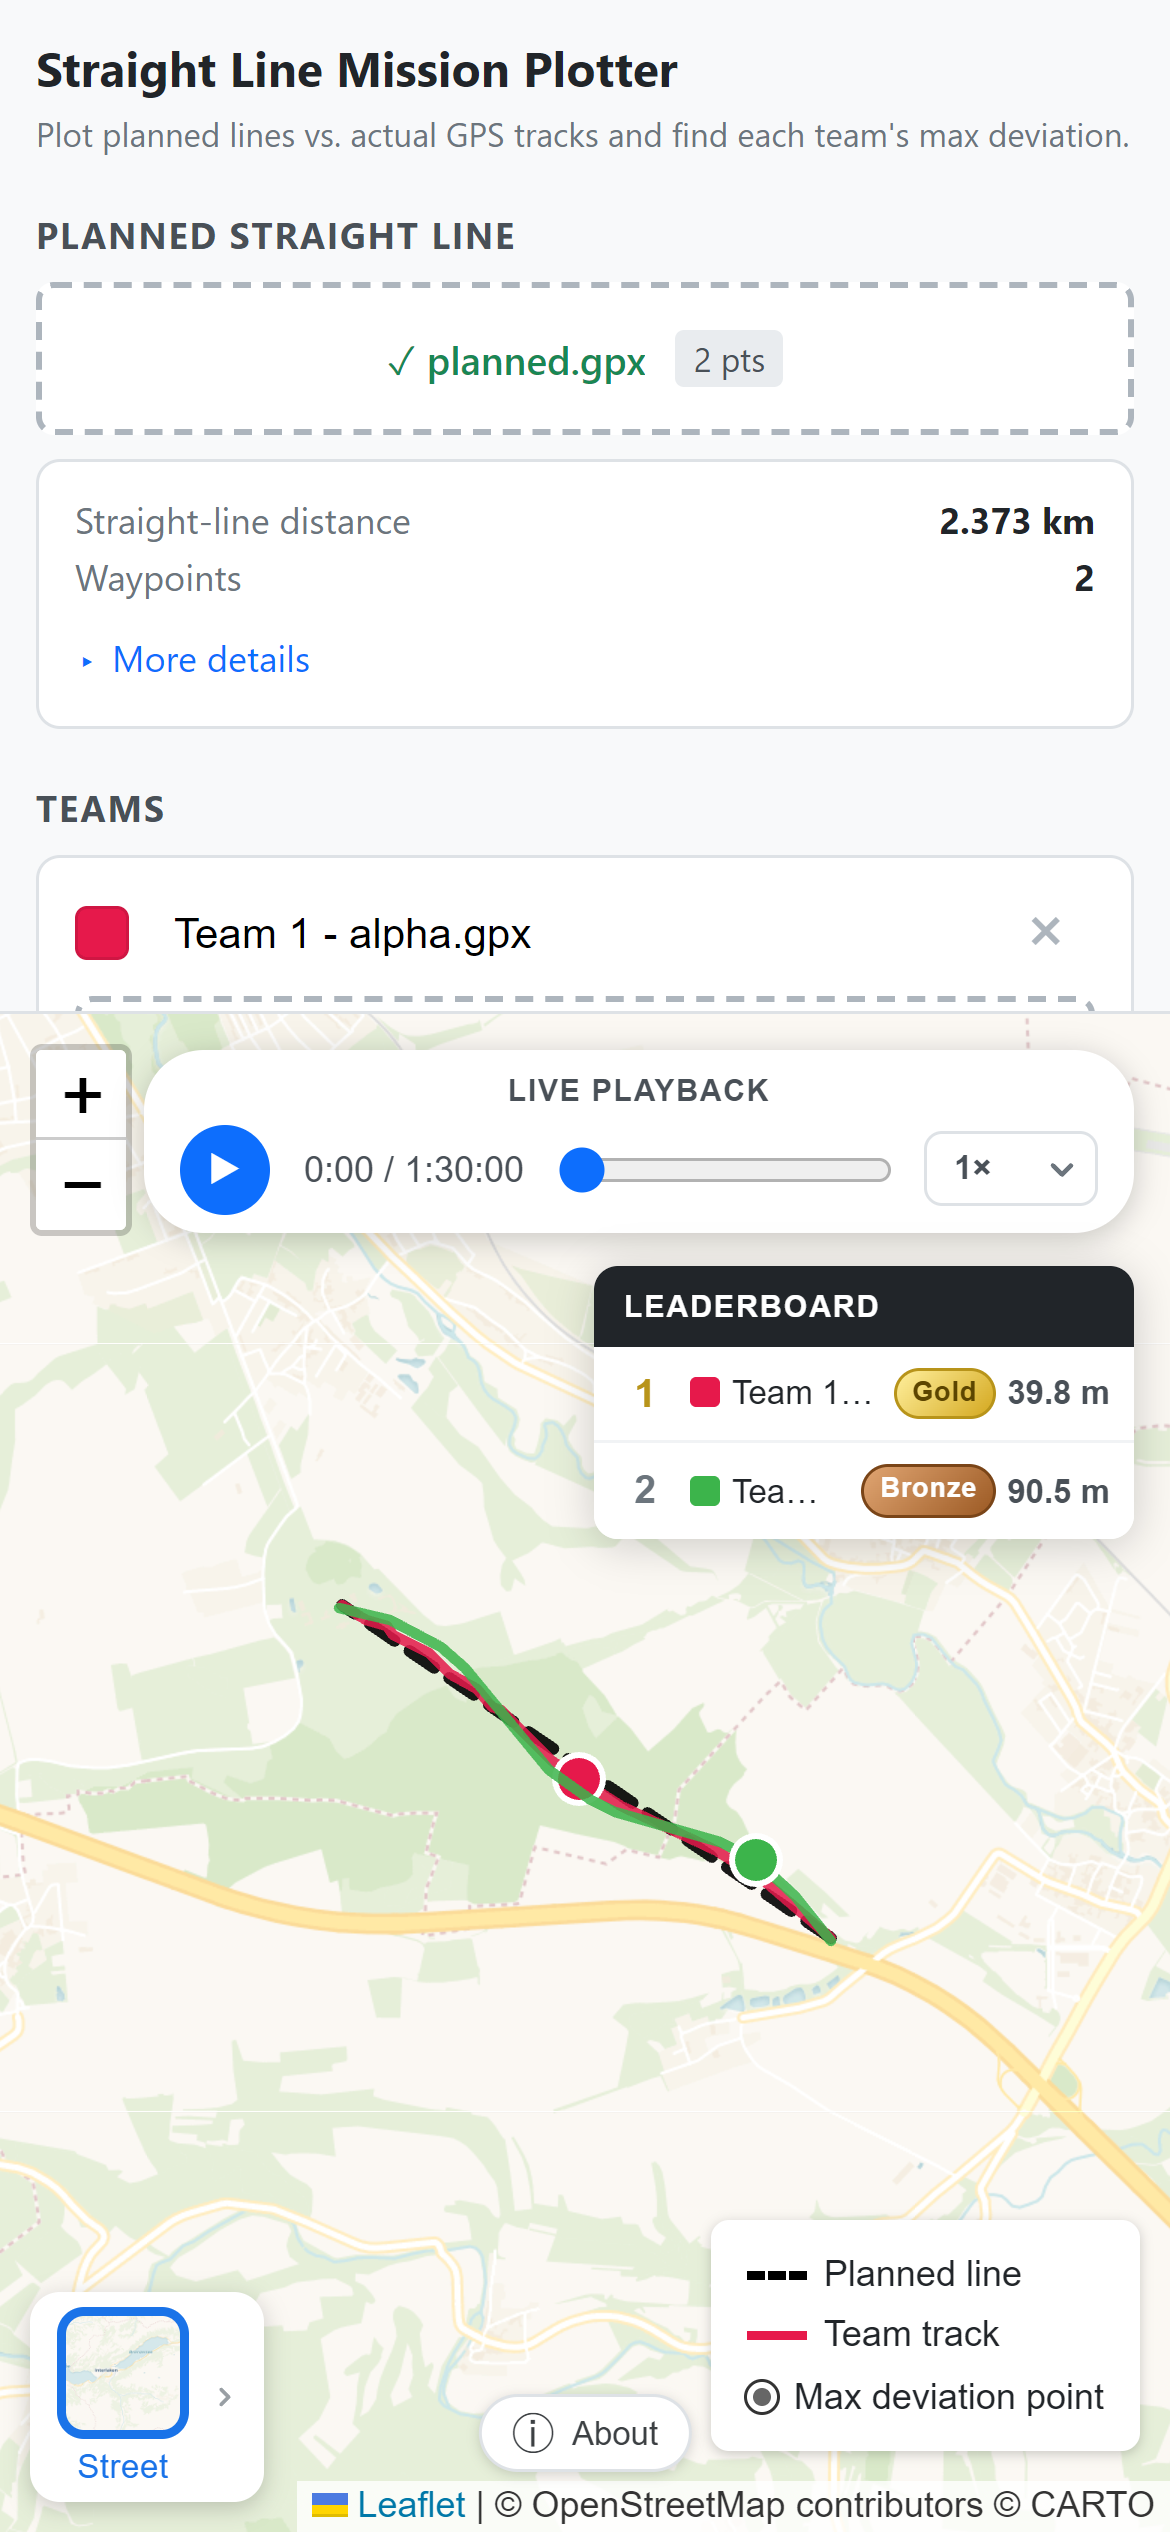
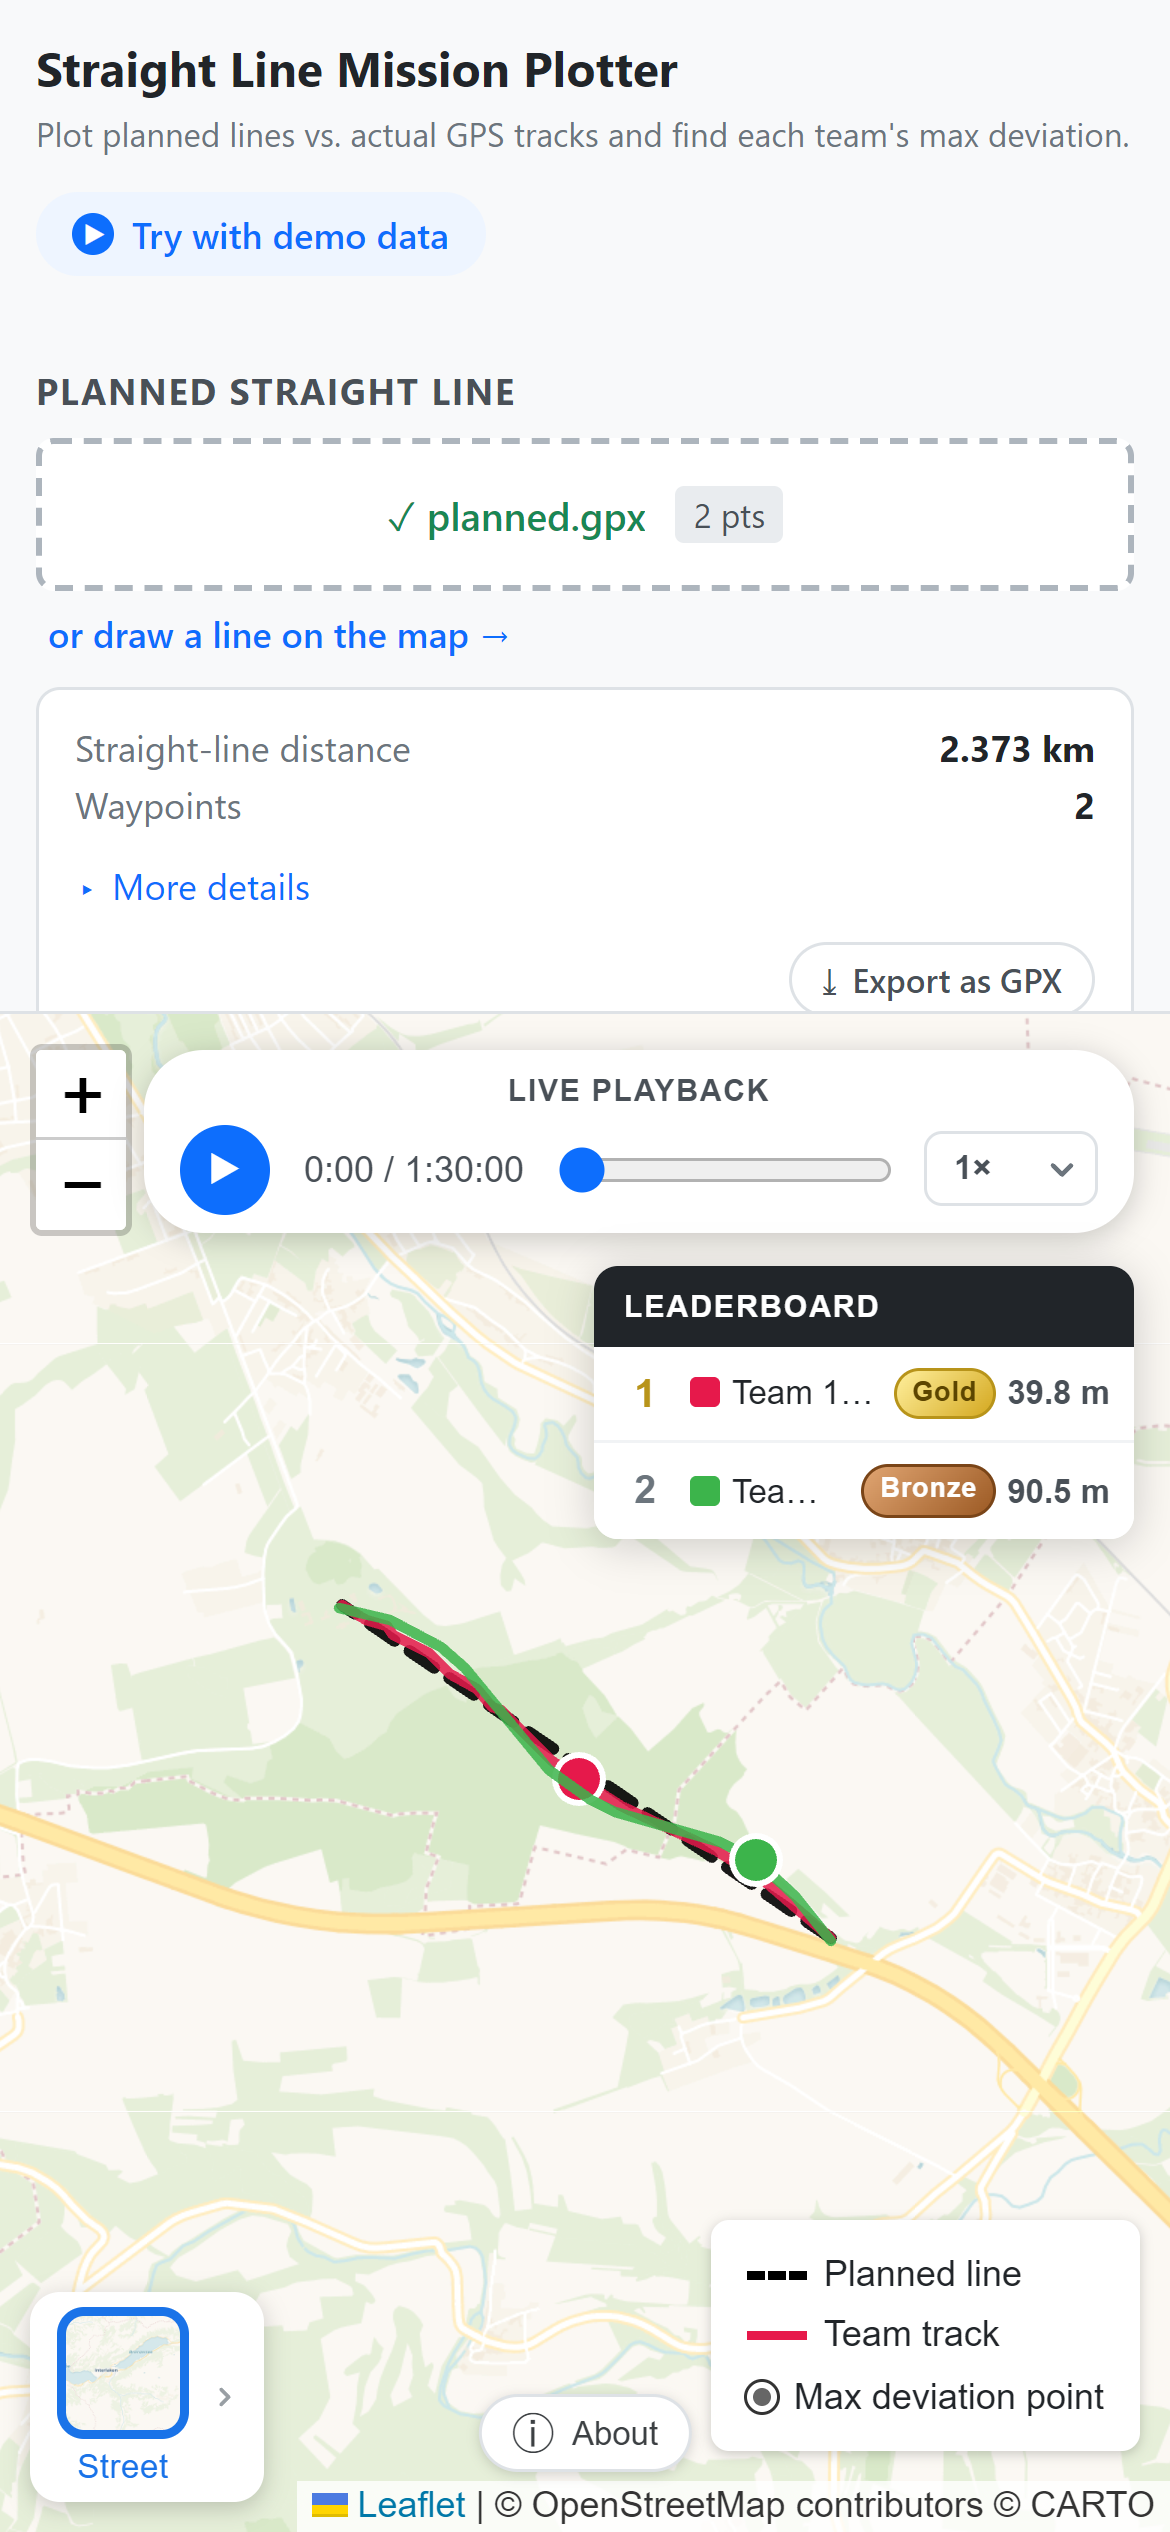
Document draw-line + GPX export, refresh screenshots

diff --git a/README.md b/README.md
@@ -19,7 +19,7 @@ Drop in the planned line and each team's GPS track; the app overlays everything 
 
 ## Features
 
-- **Planned line** from a GPX file (waypoints, route, or track — all supported)
+- **Planned line** from a GPX file (waypoints, route, or track — all supported) **or drawn directly on the map** (click a start point, click an end point); the result can be exported back out as a standards-compliant GPX file
 - **Multiple teams** with per-team GPX **or** Garmin FIT tracks
 - **Max deviation** per team, shown as a marker with a dashed perpendicular to the closest point on the planned line
 - **Medal awards** based on max deviation:
@@ -40,7 +40,7 @@ Drop in the planned line and each team's GPS track; the app overlays everything 
 
 1. Open the [live site](https://asamedia.github.io/straight-line-mission-result-plotter/) — or open [`index.html`](index.html) from a local clone; no build step, no local server required.
 2. *(Optional)* click **▶ Try with demo data** at the top of the sidebar to load a sample planned line and two simulated teams — the fastest way to see everything in action.
-3. Drop your own planned-line GPX into the **Planned Straight Line** slot.
+3. Drop your own planned-line GPX into the **Planned Straight Line** slot — or click **or draw a line on the map →** and tap the start/end points directly on the map. Once a line exists, the info card offers an **⤓ Export as GPX** button to download it.
 4. Add a team, name it, and drop in the team's `.gpx` or `.fit` recording. Repeat for each team.
 5. The map, leaderboard, and per-team stats update live.
 6. If your team tracks carry timestamps, a **Live Playback** bar appears at the top of the map — press play to animate every team along its track at your chosen speed.
